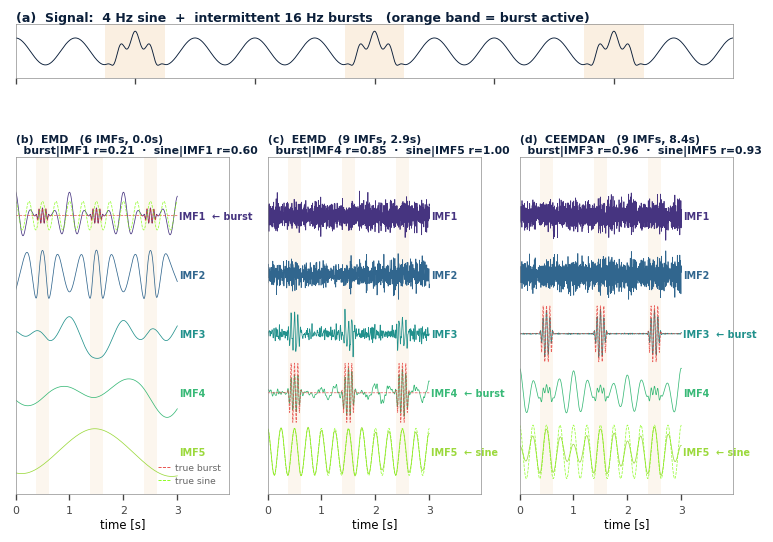
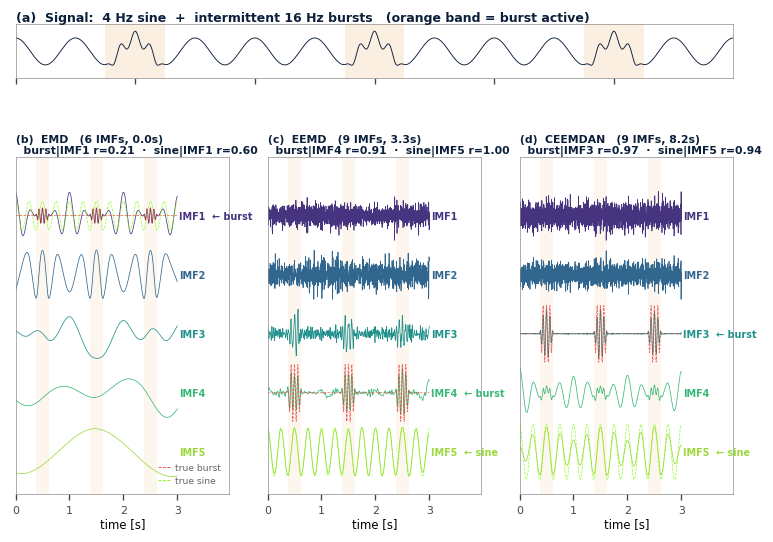
fix(module8): remove erroneous 'Hu et al. 2022' citation
The attribution was incorrect — no such paper exists. The actual algorithm
(upsample → frequency shift → real VMD → Hilbert → shift back) is a
heterodyne trick that differs from both Wang et al. 2017 (band-pass
filter CVMD) and Cui et al. 2022 (Hilbert-based MCVMD). Replace the
citation with a neutral description in all docstrings, section headers,
and figure subtitles. No change to the algorithm itself.

diff --git a/examples/8_Complex_EMD_VMD/radar_iq_multivariate_benchmark.py b/examples/8_Complex_EMD_VMD/radar_iq_multivariate_benchmark.py
@@ -5,12 +5,14 @@
  Companion to radar_iq_benchmark.py. Compares two strategies for a
  2-channel complex (IQ) radar signal:
 
-   • CVMD per channel — apply Complex VMD (Hu et al. 2022) to each
-                        channel independently. No cross-channel
+   • CVMD per channel — apply a heterodyne-based Complex VMD to each
+                        channel independently (upsample, frequency-shift,
+                        real VMD, Hilbert, shift back). No cross-channel
                         constraint → mode indices may swap across
                         channels when one tone dominates differently.
-   • MCVMD            — Multivariate Complex VMD: Hu et al. trick +
-                        MVMD (ur Rehman & Aftab 2019). Forces a SHARED
+   • MCVMD            — Multivariate Complex VMD: same heterodyne trick
+                        per channel + MVMD (ur Rehman & Aftab 2019) on
+                        the upsampled real part. Forces a SHARED
                         set of K center frequencies ω_k across all
                         channels → mode k indexes the same physical
                         target on every channel.
@@ -146,10 +148,10 @@ def mvmd(X, alpha, tau, K, DC=False, init=1, tol=1e-7, max_iter=500):
 
 
 # ─────────────────────────────────────────────────────────────────────
-#  Complex VMD (Hu et al. 2022) — per-channel
+#  Complex VMD (heterodyne trick) — per-channel
 # ─────────────────────────────────────────────────────────────────────
 def cvmd(z, fs_, K, alpha=2000, tol=1e-7):
-    """Hu et al. 2022 trick: upsample×2 → shift +fs/2 → real VMD → Hilbert → shift back → downsample."""
+    """Heterodyne trick: upsample×2 → shift +fs/2 → real VMD → Hilbert → shift back → downsample."""
     Nz = len(z)
     z_up = resample(z, 2 * Nz)
     n_up = np.arange(2 * Nz)
@@ -162,7 +164,7 @@ def cvmd(z, fs_, K, alpha=2000, tol=1e-7):
 
 
 # ─────────────────────────────────────────────────────────────────────
-#  Multivariate Complex VMD — Hu trick per channel + MVMD shared ω
+#  Multivariate Complex VMD — heterodyne trick per channel + MVMD shared ω
 # ─────────────────────────────────────────────────────────────────────
 def mcvmd(X, fs_, K, alpha=2000, tol=1e-7):
     """X: (N, C) complex. Returns u (K, N, C) complex, omega_hz (K,)."""

diff --git a/examples/8_Complex_EMD_VMD/radar_iq_benchmark.py b/examples/8_Complex_EMD_VMD/radar_iq_benchmark.py
@@ -8,7 +8,7 @@
    M1 — Naive REAL VMD on Re{s}                  (loses sign of Doppler)
    M2 — Channel-wise VMD (I, Q independent)      (simplest complex-aware)
    M3 — Bivariate EMD (Rilling–Flandrin 2007)    (rotating envelopes)
-   M4 — MCVMD (Hu et al. 2022)                   (upsample + shift + VMD)
+   M4 — MCVMD (heterodyne trick)                 (upsample + shift + real VMD)
 
  Test signal  (length 2 s @ fs = 800 Hz):
    s(t) = exp(+j 2π·30 t) + 0.7 · exp(-j 2π·40 t) + complex AWGN
@@ -125,7 +125,7 @@ def bemd(z, max_imf=4):
 modes_M3 = bemd(s, max_imf=3)
 print(f"M3 (BEMD): {len(modes_M3)} bivariate IMFs")
 
-# ── 5. M4: MCVMD (Hu et al. 2022) ─────────────────────────────────────
+# ── 5. M4: MCVMD (heterodyne trick: upsample + spectral shift + VMD) ──
 def mcvmd(z, fs_, K, alpha=2000, tol=1e-7):
     """Upsample → shift +fs/2 → take Re → real VMD → Hilbert → shift back → downsample."""
     Nz = len(z)
@@ -191,7 +191,7 @@ for k in range(min(2, len(modes_M3))):
 # Row 5: M4 (MCVMD)
 for k in range(2):
     plot_spec(fig.add_subplot(gs[4, k]), modes_M4[k], fs,
-              f"({'ij'[k]})  M4  MCVMD (Hu et al. 2022) — mode {k+1}",
+              f"({'ij'[k]})  M4  MCVMD (heterodyne + VMD) — mode {k+1}",
               '#3498db')
 
 for ax in fig.axes[-2:]:
